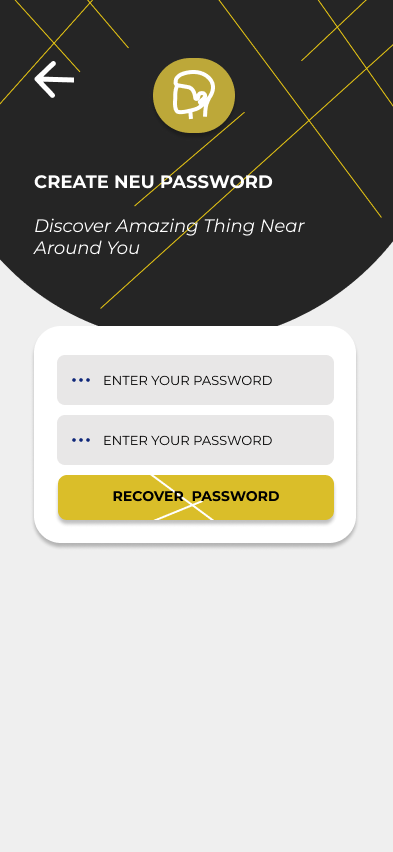
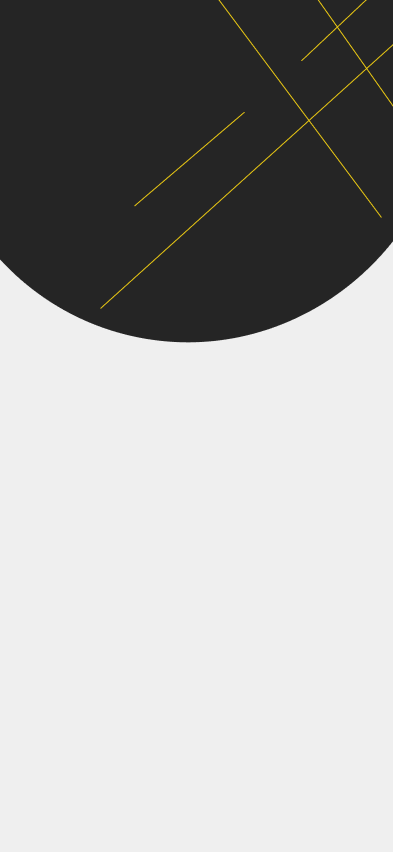
edit images

diff --git a/design/pagebenner.html b/design/pagebenner.html
@@ -1,0 +1,99 @@
+<!DOCTYPE html>
+<html lang="en">
+  <head>
+    <meta charset="UTF-8" />
+    <meta name="viewport" content="width=device-width, initial-scale=1.0" />
+    <title>pagebenner</title>
+  </head>
+  <body style="margin: 0">
+    <div class="pagebenner">
+      <div class="title">
+        <img src="logo.png" alt="" />
+        <h2>[title]</h2>
+        <h4>[beschreibung]</h4>
+      </div>
+    </div>
+    <div class="continer">
+      <button class="btn-oursPageBlack">Senden</button>
+      <button class="btn-oursPageGold">Senden</button>
+    </div>
+  </body>
+</html>
+<style>
+  body {
+    background-color: #efefef;
+  }
+  .pagebenner {
+    background-color: #000;
+    border-bottom-left-radius: 200px;
+    border-bottom-right-radius: 200px;
+    margin: 0;
+    background-image: url(pagebennerV.png);
+    height: 264px;
+    background-position: center;
+    background-position-y: 0;
+    background-repeat: no-repeat;
+    background-size: cover;
+    display: flex;
+    justify-content: center;
+  }
+  .title {
+    color: #fff;
+    margin: 10px 20px;
+  }
+  .title > h2 {
+    text-transform: uppercase;
+    size: 1rem;
+  }
+  .title > h4 {
+    size: 0.8rem;
+  }
+
+  .btn-oursPageBlack {
+    font-size: 1.1rem;
+    background-color: black;
+    background-image: url("btnBlack.png");
+    display: flex;
+    padding: 20px 80px;
+    text-transform: uppercase;
+    color: aliceblue;
+    display: flex;
+    justify-content: center;
+    align-items: center;
+    text-align: center;
+    background-repeat: no-repeat;
+    background-size: cover;
+    background-position: center;
+    border-radius: 20px;
+    font-weight: 900;
+    text-overflow: #fff;
+  }
+  .btn-oursPageGold {
+    font-size: 1.1rem;
+    border: none;
+    background-color: #dabe29;
+    background-image: url("btnGold.png");
+    display: flex;
+    padding: 20px 80px;
+    text-transform: uppercase;
+    color: #000;
+    font-weight: 900;
+    text-overflow: #000;
+    display: flex;
+    justify-content: center;
+    align-items: center;
+    text-align: center;
+    background-repeat: no-repeat;
+    background-size: cover;
+    background-position: center;
+    border-radius: 20px;
+  }
+  .continer {
+    display: flex;
+    justify-content: center;
+    flex-direction: column;
+  }
+  .continer > * {
+    margin: 10px;
+  }
+</style>
